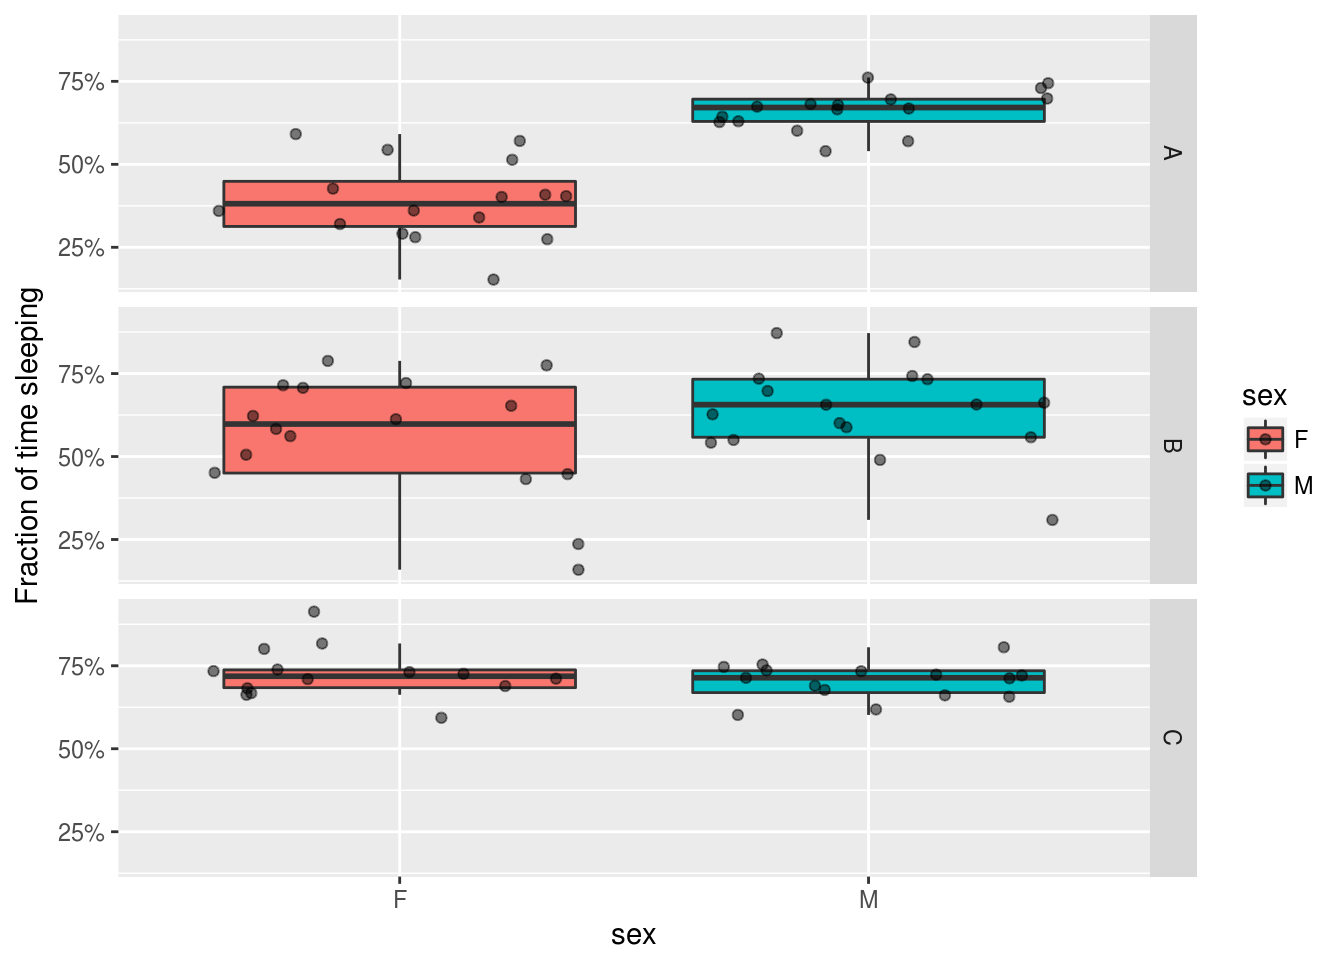
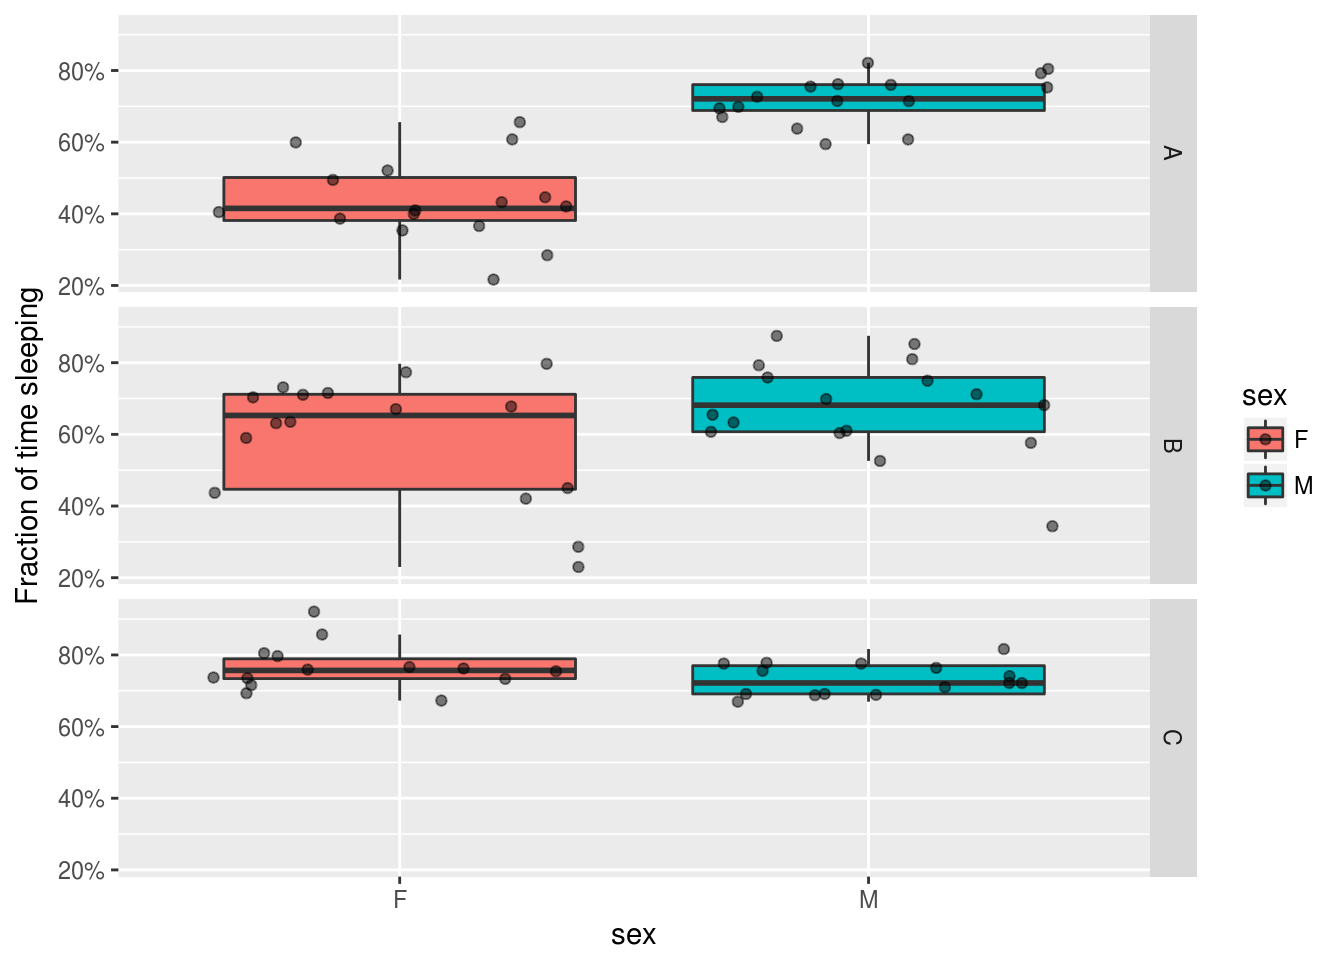
Automatic deployment after 2c0aecd021b7af81ed38a0c7988bc87e830cf63c [ci skip]

diff --git a/sleepr.html b/sleepr.html
@@ -397,16 +397,17 @@ dt_curated &lt;-<span class="st"> </span>dt_curated[id <span class="op">%in%</sp
 </div>
 <div id="trimming" class="section level3 unnumbered">
 <h3>Trimming</h3>
-<p>Generally, we want to remove point according the experimental time. For instance, we want to remove the begining as animals are acclimatising to their new environment. In general, we could simply do:</p>
-<div class="sourceCode"><pre class="sourceCode r"><code class="sourceCode r">dt_curated &lt;-<span class="st"> </span>dt_curated[t <span class="op">%between%</span><span class="st"> </span><span class="kw">c</span>(<span class="kw">days</span>(<span class="dv">1</span>), <span class="kw">days</span>(<span class="fl">3.5</span>))]
+<p>Generally, we want to remove point according the experimental time. For instance, lets say we would like to keep only the first 60 hours of data (i.e. 2.5 days)</p>
+<div class="sourceCode"><pre class="sourceCode r"><code class="sourceCode r">dt_curated &lt;-<span class="st"> </span>dt_curated[t <span class="op">%between%</span><span class="st"> </span><span class="kw">c</span>(<span class="kw">days</span>(<span class="dv">0</span>), <span class="kw">days</span>(<span class="fl">2.5</span>))]
 <span class="kw">summary</span>(dt_curated)</code></pre></div>
 <pre><code>## behavr table with:
 ##  94  individuals
 ##  8   metavariables
 ##  4   variables
-##  2.19563e+05 measurements
+##  3.38494e+05 measurements
 ##  1   key (id)</code></pre>
-<p>Which means we are only considering data <strong>between</strong> 1 and 3.5 days after the experiment started.</p>
+<p>Which means we are only considering data <strong>between</strong> 0 and 2.5 days.</p>
+<p>The same principle can be used to remove the begining of an experiment. Fon instance when animals are acclimatising to their new environment.</p>
 </div>
 </div>
 <div id="population-plots-1" class="section level2 unnumbered">
@@ -463,17 +464,17 @@ summary_dt</code></pre></div>
 ## 93: 2017-07-01 08:00:00|Monitor64.txt 2017-07-01 08:00:00    2017-07-04
 ## 94: 2017-07-01 08:00:00|Monitor64.txt 2017-07-01 08:00:00    2017-07-04
 ##     sex genotype replicate sleep_fraction
-##  1:   M        A         1      0.6956159
-##  2:   M        A         1      0.6817043
-##  3:   M        A         1      0.7613588
-##  4:   M        A         1      0.6984590
-##  5:   M        A         1      0.7443832
+##  1:   M        A         1      0.7600666
+##  2:   M        A         1      0.7550680
+##  3:   M        A         1      0.8214385
+##  4:   M        A         1      0.7528464
+##  5:   M        A         1      0.8044988
 ## ---                                      
-## 90:   F        C         1      0.7309454
-## 91:   F        C         1      0.5934455
-## 92:   F        C         1      0.7257455
-## 93:   F        C         1      0.7386745
-## 94:   F        C         1      0.9130982</code></pre>
+## 90:   F        C         1      0.7661761
+## 91:   F        C         1      0.6725909
+## 92:   F        C         1      0.7622883
+## 93:   F        C         1      0.7967231
+## 94:   F        C         1      0.9208553</code></pre>
 <p>With <code>rejoin</code>, we have put our summary and metadata together, which is suitable for standars graphics/statictics. For instance, if we are interested in the effect of sleep and genotype on sleep amount, we can make a faceted boxplot, and also add individual points to show all data.</p>
 <div class="sourceCode"><pre class="sourceCode r"><code class="sourceCode r"><span class="kw">ggplot</span>(summary_dt, <span class="kw">aes</span>(<span class="dt">x=</span>sex, <span class="dt">y=</span>sleep_fraction, <span class="dt">fill=</span>sex)) <span class="op">+</span><span class="st"> </span>
 <span class="st">  </span><span class="kw">geom_boxplot</span>(<span class="dt">outlier.colour =</span> <span class="ot">NA</span>) <span class="op">+</span>
@@ -534,29 +535,29 @@ summary_dt</code></pre></div>
 ## 93: 2017-07-01 08:00:00|Monitor64.txt 2017-07-01 08:00:00    2017-07-04
 ## 94: 2017-07-01 08:00:00|Monitor64.txt 2017-07-01 08:00:00    2017-07-04
 ##     sex genotype replicate sleep_fraction_all sleep_fraction_l
-##  1:   M        A         1          0.6956159        0.8270833
-##  2:   M        A         1          0.6817043        0.7854167
-##  3:   M        A         1          0.7613588        0.8402778
-##  4:   M        A         1          0.6984590        0.8541667
-##  5:   M        A         1          0.7443832        0.8395833
+##  1:   M        A         1          0.7600666        0.8500000
+##  2:   M        A         1          0.7550680        0.7861111
+##  3:   M        A         1          0.8214385        0.8356481
+##  4:   M        A         1          0.7528464        0.8555556
+##  5:   M        A         1          0.8044988        0.8444444
 ## ---                                                           
-## 90:   F        C         1          0.7309454        0.7118056
-## 91:   F        C         1          0.5934455        0.5465278
-## 92:   F        C         1          0.7257455        0.7229167
-## 93:   F        C         1          0.7386745        0.7152778
-## 94:   F        C         1          0.9130982        0.9777778
+## 90:   F        C         1          0.7661761        0.7504630
+## 91:   F        C         1          0.6725909        0.6370370
+## 92:   F        C         1          0.7622883        0.7523148
+## 93:   F        C         1          0.7967231        0.7773148
+## 94:   F        C         1          0.9208553        0.9643519
 ##     sleep_fraction_d
-##  1:        0.4973822
-##  2:        0.5251572
-##  3:        0.6371585
-##  4:        0.4651405
-##  5:        0.5952122
+##  1:        0.6252602
+##  2:        0.7085357
+##  3:        0.8001388
+##  4:        0.5988897
+##  5:        0.7446218
 ## ---                 
-## 90:        0.7596254
-## 91:        0.6760391
-## 92:        0.7300744
-## 93:        0.7743644
-## 94:        0.8142251</code></pre>
+## 90:        0.7897294
+## 91:        0.7258848
+## 92:        0.7772380
+## 93:        0.8258154
+## 94:        0.8556558</code></pre>
 <p>Now, we have three new variables: <code>sleep_fraction_all</code>, <code>sleep_fraction_l</code> and <code>sleep_fraction_d</code>. We can just replace the y axis with our variable of interest (e.g. sleep in D phase):</p>
 <div class="sourceCode"><pre class="sourceCode r"><code class="sourceCode r"><span class="kw">ggplot</span>(summary_dt, <span class="kw">aes</span>(<span class="dt">x=</span>sex, <span class="dt">y=</span>sleep_fraction_d, <span class="dt">fill=</span>sex)) <span class="op">+</span><span class="st"> </span>
 <span class="st">  </span><span class="kw">geom_boxplot</span>(<span class="dt">outlier.colour =</span> <span class="ot">NA</span>) <span class="op">+</span>
@@ -584,14 +585,19 @@ summary_dt</code></pre></div>
 <p>Say we wanted to compute, for <strong>females only</strong>, all pairwise tests between all genotype groups (A vs B, B vs C and C vs A). This could be formulated as:</p>
 <div class="sourceCode"><pre class="sourceCode r"><code class="sourceCode r"><span class="kw">pairwise.wilcox.test</span>(summary_dt[sex<span class="op">==</span><span class="st">&quot;F&quot;</span>, sleep_fraction_all], 
                      summary_dt[sex<span class="op">==</span><span class="st">&quot;F&quot;</span>, genotype])</code></pre></div>
+<pre><code>## Warning in wilcox.test.default(xi, xj, paired = paired, ...): cannot
+## compute exact p-value with ties
+
+## Warning in wilcox.test.default(xi, xj, paired = paired, ...): cannot
+## compute exact p-value with ties</code></pre>
 <pre><code>## 
 ##  Pairwise comparisons using Wilcoxon rank sum test 
 ## 
 ## data:  summary_dt[sex == &quot;F&quot;, sleep_fraction_all] and summary_dt[sex == &quot;F&quot;, genotype] 
 ## 
 ##   A       B     
-## B 0.0045  -     
-## C 4.1e-08 0.0045
+## B 0.0047  -     
+## C 4.1e-08 0.0018
 ## 
 ## P value adjustment method: holm</code></pre>
 <p>We get a matrix showing us all p-values. You could do that also within males, as long as we replace <code>sex == &quot;F&quot;</code> by <code>sex == &quot;M&quot;</code></p>
@@ -602,10 +608,10 @@ summary_dt</code></pre></div>
 <div class="sourceCode"><pre class="sourceCode r"><code class="sourceCode r">model &lt;-<span class="st"> </span><span class="kw">aov</span>(sleep_fraction_all <span class="op">~</span><span class="st"> </span>sex <span class="op">*</span><span class="st"> </span>genotype, summary_dt)
 <span class="kw">summary</span>(model)</code></pre></div>
 <pre><code>##              Df Sum Sq Mean Sq F value   Pr(&gt;F)    
-## sex           1 0.3122 0.31222   23.46 5.42e-06 ***
-## genotype      2 0.5328 0.26638   20.02 6.83e-08 ***
-## sex:genotype  2 0.3496 0.17478   13.13 1.02e-05 ***
-## Residuals    88 1.1710 0.01331                     
+## sex           1 0.3235  0.3235   26.39 1.66e-06 ***
+## genotype      2 0.4417  0.2209   18.02 2.76e-07 ***
+## sex:genotype  2 0.3874  0.1937   15.80 1.37e-06 ***
+## Residuals    88 1.0786  0.0123                     
 ## ---
 ## Signif. codes:  0 &#39;***&#39; 0.001 &#39;**&#39; 0.01 &#39;*&#39; 0.05 &#39;.&#39; 0.1 &#39; &#39; 1</code></pre>
 <p>This shows a strong affect of sex, genotype and their interaction on sleep amount. There are several way to follow up. For instance see this <a href="https://www.r-bloggers.com/two-way-analysis-of-variance-anova/">short tutorial</a>.</p>
@@ -689,16 +695,16 @@ summary_dt</code></pre></div>
 ## 
 ##                                       id n_bouts mean_bout_length
 ##                                   &lt;fctr&gt;   &lt;int&gt;            &lt;num&gt;
-##  1: 2017-07-01 08:00:00|Monitor11.txt|01      56         1785.000
-##  2: 2017-07-01 08:00:00|Monitor11.txt|02      69         1419.130
-##  3: 2017-07-01 08:00:00|Monitor11.txt|03      58         1854.828
-##  4: 2017-07-01 08:00:00|Monitor11.txt|04      65         1548.000
+##  1: 2017-07-01 08:00:00|Monitor11.txt|01      80         2052.000
+##  2: 2017-07-01 08:00:00|Monitor11.txt|02     109         1496.147
+##  3: 2017-07-01 08:00:00|Monitor11.txt|03      97         1829.072
+##  4: 2017-07-01 08:00:00|Monitor11.txt|04      95         1711.579
 ## ---                                                              
-## 90: 2017-07-01 08:00:00|Monitor64.txt|27      53         1986.792
-## 91: 2017-07-01 08:00:00|Monitor64.txt|29     100          804.000
-## 92: 2017-07-01 08:00:00|Monitor64.txt|30      66         1570.909
-## 93: 2017-07-01 08:00:00|Monitor64.txt|31      39         2709.231
-## 94: 2017-07-01 08:00:00|Monitor64.txt|32      19         6868.421</code></pre>
+## 90: 2017-07-01 08:00:00|Monitor64.txt|27      75         2206.400
+## 91: 2017-07-01 08:00:00|Monitor64.txt|29     142         1023.380
+## 92: 2017-07-01 08:00:00|Monitor64.txt|30      99         1663.636
+## 93: 2017-07-01 08:00:00|Monitor64.txt|31      67         2568.358
+## 94: 2017-07-01 08:00:00|Monitor64.txt|32      36         5525.000</code></pre>
 <p>You could apply the approach presented before to compute statistics according the the phase (night vs day bouts).</p>
 </div>
 <div id="latency-to-sleep" class="section level3 unnumbered">
@@ -727,11 +733,11 @@ bout_summary</code></pre></div>
 ##  3: 2017-07-01 08:00:00|Monitor11.txt|03    &lt;list&gt;         3
 ##  4: 2017-07-01 08:00:00|Monitor11.txt|04    &lt;list&gt;         4
 ## ---                                                         
-## 90: 2017-07-01 08:00:00|Monitor64.txt|27    &lt;list&gt;        27
-## 91: 2017-07-01 08:00:00|Monitor64.txt|29    &lt;list&gt;        29
-## 92: 2017-07-01 08:00:00|Monitor64.txt|30    &lt;list&gt;        30
-## 93: 2017-07-01 08:00:00|Monitor64.txt|31    &lt;list&gt;        31
-## 94: 2017-07-01 08:00:00|Monitor64.txt|32    &lt;list&gt;        32
+## 89: 2017-07-01 08:00:00|Monitor64.txt|27    &lt;list&gt;        27
+## 90: 2017-07-01 08:00:00|Monitor64.txt|29    &lt;list&gt;        29
+## 91: 2017-07-01 08:00:00|Monitor64.txt|30    &lt;list&gt;        30
+## 92: 2017-07-01 08:00:00|Monitor64.txt|31    &lt;list&gt;        31
+## 93: 2017-07-01 08:00:00|Monitor64.txt|32    &lt;list&gt;        32
 ##                         experiment_id      start_datetime stop_datetime
 ##                                &lt;char&gt;              &lt;POSc&gt;        &lt;char&gt;
 ##  1: 2017-07-01 08:00:00|Monitor11.txt 2017-07-01 08:00:00    2017-07-04
@@ -739,11 +745,11 @@ bout_summary</code></pre></div>
 ##  3: 2017-07-01 08:00:00|Monitor11.txt 2017-07-01 08:00:00    2017-07-04
 ##  4: 2017-07-01 08:00:00|Monitor11.txt 2017-07-01 08:00:00    2017-07-04
 ## ---                                                                    
+## 89: 2017-07-01 08:00:00|Monitor64.txt 2017-07-01 08:00:00    2017-07-04
 ## 90: 2017-07-01 08:00:00|Monitor64.txt 2017-07-01 08:00:00    2017-07-04
 ## 91: 2017-07-01 08:00:00|Monitor64.txt 2017-07-01 08:00:00    2017-07-04
 ## 92: 2017-07-01 08:00:00|Monitor64.txt 2017-07-01 08:00:00    2017-07-04
 ## 93: 2017-07-01 08:00:00|Monitor64.txt 2017-07-01 08:00:00    2017-07-04
-## 94: 2017-07-01 08:00:00|Monitor64.txt 2017-07-01 08:00:00    2017-07-04
 ##        sex genotype replicate
 ##     &lt;char&gt;   &lt;char&gt;     &lt;int&gt;
 ##  1:      M        A         1
@@ -751,38 +757,38 @@ bout_summary</code></pre></div>
 ##  3:      M        A         1
 ##  4:      M        A         1
 ## ---                          
+## 89:      F        C         1
 ## 90:      F        C         1
 ## 91:      F        C         1
 ## 92:      F        C         1
 ## 93:      F        C         1
-## 94:      F        C         1
 ## 
 ##  ====== DATA ======
 ## 
 ##                                       id latency first_bout_length
 ##                                   &lt;fctr&gt;   &lt;num&gt;             &lt;num&gt;
-##  1: 2017-07-01 08:00:00|Monitor11.txt|01       0              1560
-##  2: 2017-07-01 08:00:00|Monitor11.txt|02       0              1020
-##  3: 2017-07-01 08:00:00|Monitor11.txt|03       0              1200
-##  4: 2017-07-01 08:00:00|Monitor11.txt|04       0               960
+##  1: 2017-07-01 08:00:00|Monitor11.txt|01    2940               360
+##  2: 2017-07-01 08:00:00|Monitor11.txt|02    3540               420
+##  3: 2017-07-01 08:00:00|Monitor11.txt|03    4500               300
+##  4: 2017-07-01 08:00:00|Monitor11.txt|04    1080               720
 ## ---                                                               
-## 90: 2017-07-01 08:00:00|Monitor64.txt|27       0              1140
-## 91: 2017-07-01 08:00:00|Monitor64.txt|29     900               540
-## 92: 2017-07-01 08:00:00|Monitor64.txt|30       0              1020
-## 93: 2017-07-01 08:00:00|Monitor64.txt|31       0              1200
-## 94: 2017-07-01 08:00:00|Monitor64.txt|32       0              1140
+## 89: 2017-07-01 08:00:00|Monitor64.txt|27    6120               300
+## 90: 2017-07-01 08:00:00|Monitor64.txt|29     900               540
+## 91: 2017-07-01 08:00:00|Monitor64.txt|30    2100               300
+## 92: 2017-07-01 08:00:00|Monitor64.txt|31    4380               420
+## 93: 2017-07-01 08:00:00|Monitor64.txt|32    2160              5640
 ##     latency_to_longest_bout length_longest_bout n_bouts mean_bout_length
 ##                       &lt;num&gt;               &lt;num&gt;   &lt;int&gt;            &lt;num&gt;
-##  1:                   27000                3300      26        1398.4615
-##  2:                   17760                6300      24        1450.0000
-##  3:                   37920                3600      30        1204.0000
-##  4:                   30600                6240      29        1336.5517
+##  1:                   27000                3300      25        1392.0000
+##  2:                   17760                6300      23        1468.6957
+##  3:                   37920                3600      29        1204.1379
+##  4:                   30600                6240      28        1350.0000
 ## ---                                                                     
-## 90:                   14160                6720      20        1767.0000
-## 91:                   11400                1980      42         625.7143
-## 92:                   35820                4560      26        1317.6923
-## 93:                   21360               14760      20        1641.0000
-## 94:                   26820               15360       7        5897.1429</code></pre>
+## 89:                   14160                6720      19        1800.0000
+## 90:                   11400                1980      42         625.7143
+## 91:                   35820                4560      25        1329.6000
+## 92:                   21360               14760      19        1664.2105
+## 93:                   26820               15360       6        6690.0000</code></pre>
 <p>For good measures, I also added number of bout and average bout length as we have seen before. You can of course use these result to plot things like the relationship between bout length and bout number:</p>
 <div class="sourceCode"><pre class="sourceCode r"><code class="sourceCode r"><span class="kw">ggplot</span>(<span class="kw">rejoin</span>(bout_summary), <span class="kw">aes</span>(n_bouts, mean_bout_length, <span class="dt">colour=</span>sex)) <span class="op">+</span>
 <span class="st">    </span><span class="kw">geom_point</span>() <span class="op">+</span>
@@ -805,11 +811,11 @@ overall_summary</code></pre></div>
 ##  4: 2017-07-01 08:00:00|Monitor11.txt|04    &lt;list&gt;         4
 ##  5: 2017-07-01 08:00:00|Monitor11.txt|05    &lt;list&gt;         5
 ## ---                                                         
-## 90: 2017-07-01 08:00:00|Monitor64.txt|27    &lt;list&gt;        27
-## 91: 2017-07-01 08:00:00|Monitor64.txt|29    &lt;list&gt;        29
-## 92: 2017-07-01 08:00:00|Monitor64.txt|30    &lt;list&gt;        30
-## 93: 2017-07-01 08:00:00|Monitor64.txt|31    &lt;list&gt;        31
-## 94: 2017-07-01 08:00:00|Monitor64.txt|32    &lt;list&gt;        32
+## 89: 2017-07-01 08:00:00|Monitor64.txt|27    &lt;list&gt;        27
+## 90: 2017-07-01 08:00:00|Monitor64.txt|29    &lt;list&gt;        29
+## 91: 2017-07-01 08:00:00|Monitor64.txt|30    &lt;list&gt;        30
+## 92: 2017-07-01 08:00:00|Monitor64.txt|31    &lt;list&gt;        31
+## 93: 2017-07-01 08:00:00|Monitor64.txt|32    &lt;list&gt;        32
 ##                         experiment_id      start_datetime stop_datetime
 ##  1: 2017-07-01 08:00:00|Monitor11.txt 2017-07-01 08:00:00    2017-07-04
 ##  2: 2017-07-01 08:00:00|Monitor11.txt 2017-07-01 08:00:00    2017-07-04
@@ -817,47 +823,47 @@ overall_summary</code></pre></div>
 ##  4: 2017-07-01 08:00:00|Monitor11.txt 2017-07-01 08:00:00    2017-07-04
 ##  5: 2017-07-01 08:00:00|Monitor11.txt 2017-07-01 08:00:00    2017-07-04
 ## ---                                                                    
+## 89: 2017-07-01 08:00:00|Monitor64.txt 2017-07-01 08:00:00    2017-07-04
 ## 90: 2017-07-01 08:00:00|Monitor64.txt 2017-07-01 08:00:00    2017-07-04
 ## 91: 2017-07-01 08:00:00|Monitor64.txt 2017-07-01 08:00:00    2017-07-04
 ## 92: 2017-07-01 08:00:00|Monitor64.txt 2017-07-01 08:00:00    2017-07-04
 ## 93: 2017-07-01 08:00:00|Monitor64.txt 2017-07-01 08:00:00    2017-07-04
-## 94: 2017-07-01 08:00:00|Monitor64.txt 2017-07-01 08:00:00    2017-07-04
 ##     sex genotype replicate sleep_fraction_all sleep_fraction_l
-##  1:   M        A         1          0.6956159        0.8270833
-##  2:   M        A         1          0.6817043        0.7854167
-##  3:   M        A         1          0.7613588        0.8402778
-##  4:   M        A         1          0.6984590        0.8541667
-##  5:   M        A         1          0.7443832        0.8395833
+##  1:   M        A         1          0.7600666        0.8500000
+##  2:   M        A         1          0.7550680        0.7861111
+##  3:   M        A         1          0.8214385        0.8356481
+##  4:   M        A         1          0.7528464        0.8555556
+##  5:   M        A         1          0.8044988        0.8444444
 ## ---                                                           
-## 90:   F        C         1          0.7309454        0.7118056
-## 91:   F        C         1          0.5934455        0.5465278
-## 92:   F        C         1          0.7257455        0.7229167
-## 93:   F        C         1          0.7386745        0.7152778
-## 94:   F        C         1          0.9130982        0.9777778
+## 89:   F        C         1          0.7661761        0.7504630
+## 90:   F        C         1          0.6725909        0.6370370
+## 91:   F        C         1          0.7622883        0.7523148
+## 92:   F        C         1          0.7967231        0.7773148
+## 93:   F        C         1          0.9208553        0.9643519
 ##     sleep_fraction_d latency first_bout_length latency_to_longest_bout
-##  1:        0.4973822       0              1560                   27000
-##  2:        0.5251572       0              1020                   17760
-##  3:        0.6371585       0              1200                   37920
-##  4:        0.4651405       0               960                   30600
-##  5:        0.5952122       0               960                   14820
+##  1:        0.6252602    2940               360                   27000
+##  2:        0.7085357    3540               420                   17760
+##  3:        0.8001388    4500               300                   37920
+##  4:        0.5988897    1080               720                   30600
+##  5:        0.7446218    2760               300                   14820
 ## ---                                                                   
-## 90:        0.7596254       0              1140                   14160
-## 91:        0.6760391     900               540                   11400
-## 92:        0.7300744       0              1020                   35820
-## 93:        0.7743644       0              1200                   21360
-## 94:        0.8142251       0              1140                   26820
+## 89:        0.7897294    6120               300                   14160
+## 90:        0.7258848     900               540                   11400
+## 91:        0.7772380    2100               300                   35820
+## 92:        0.8258154    4380               420                   21360
+## 93:        0.8556558    2160              5640                   26820
 ##     length_longest_bout n_bouts mean_bout_length
-##  1:                3300      26        1398.4615
-##  2:                6300      24        1450.0000
-##  3:                3600      30        1204.0000
-##  4:                6240      29        1336.5517
-##  5:                5880      16        2441.2500
+##  1:                3300      25        1392.0000
+##  2:                6300      23        1468.6957
+##  3:                3600      29        1204.1379
+##  4:                6240      28        1350.0000
+##  5:                5880      15        2540.0000
 ## ---                                             
-## 90:                6720      20        1767.0000
-## 91:                1980      42         625.7143
-## 92:                4560      26        1317.6923
-## 93:               14760      20        1641.0000
-## 94:               15360       7        5897.1429</code></pre>
+## 89:                6720      19        1800.0000
+## 90:                1980      42         625.7143
+## 91:                4560      25        1329.6000
+## 92:               14760      19        1664.2105
+## 93:               15360       6        6690.0000</code></pre>
 <div class="sourceCode"><pre class="sourceCode r"><code class="sourceCode r"><span class="kw">ggplot</span>(overall_summary, <span class="kw">aes</span>(latency <span class="op">/</span><span class="st"> </span><span class="dv">60</span>, sleep_fraction_l, <span class="dt">colour=</span>sex)) <span class="op">+</span>
 <span class="st">    </span><span class="kw">geom_point</span>() <span class="op">+</span>
 <span class="st">    </span><span class="kw">geom_smooth</span>(<span class="dt">method=</span><span class="st">&quot;lm&quot;</span>, <span class="dt">alpha=</span>.<span class="dv">1</span>)<span class="op">+</span>

diff --git a/scopr.html b/scopr.html
@@ -704,7 +704,7 @@ dt &lt;-<span class="st"> </span><span class="kw">load_ethoscope</span>(metadata
                        <span class="dt">verbose=</span><span class="ot">FALSE</span>)
 )</code></pre></div>
 <pre><code>##    user  system elapsed 
-## 177.081   4.889 180.974</code></pre>
+## 148.461   3.388 151.205</code></pre>
 <p>However, the next time, we do the same thing way faster:</p>
 <div class="sourceCode"><pre class="sourceCode r"><code class="sourceCode r"><span class="kw">system.time</span>(
   dt &lt;-<span class="st"> </span><span class="kw">load_ethoscope</span>(metadata,
@@ -714,7 +714,7 @@ dt &lt;-<span class="st"> </span><span class="kw">load_ethoscope</span>(metadata
                        <span class="dt">verbose=</span><span class="ot">FALSE</span>)
 )</code></pre></div>
 <pre><code>##    user  system elapsed 
-##   2.275   0.072   2.300</code></pre>
+##   2.008   0.051   2.013</code></pre>
 <p>Here, we set <code>cache</code> to <code>&quot;ethoscope_cache&quot;</code>. This creates a new directory called <code>&quot;ethoscope_cache&quot;</code> (you can pick the name and location you want). If you to do a bit of tidying up, you can remove it without risk (it will just take time next time you load your data).</p>
 </div>
 </div>
